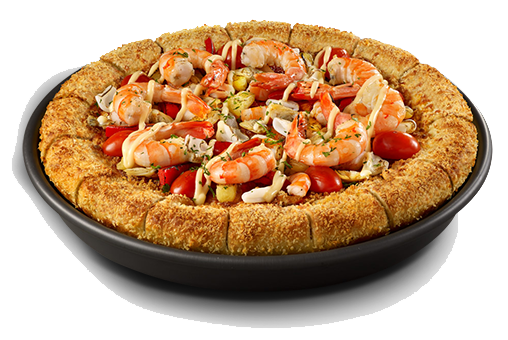
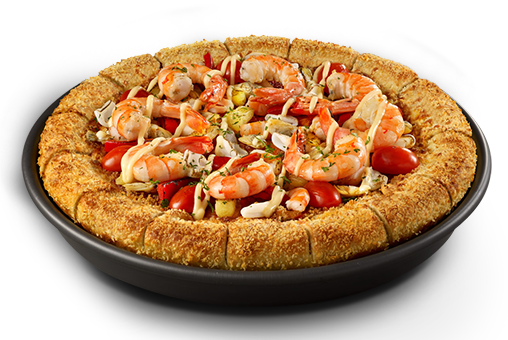
eeeeeeeeeeeeeeeee

diff --git a/WebContent/css/product.css b/WebContent/css/product.css
@@ -40,7 +40,7 @@
 	height:160px;
 }
 .productImage img{
-	width:200px;
+	width: 220px;
 	height: auto;
 }
 
